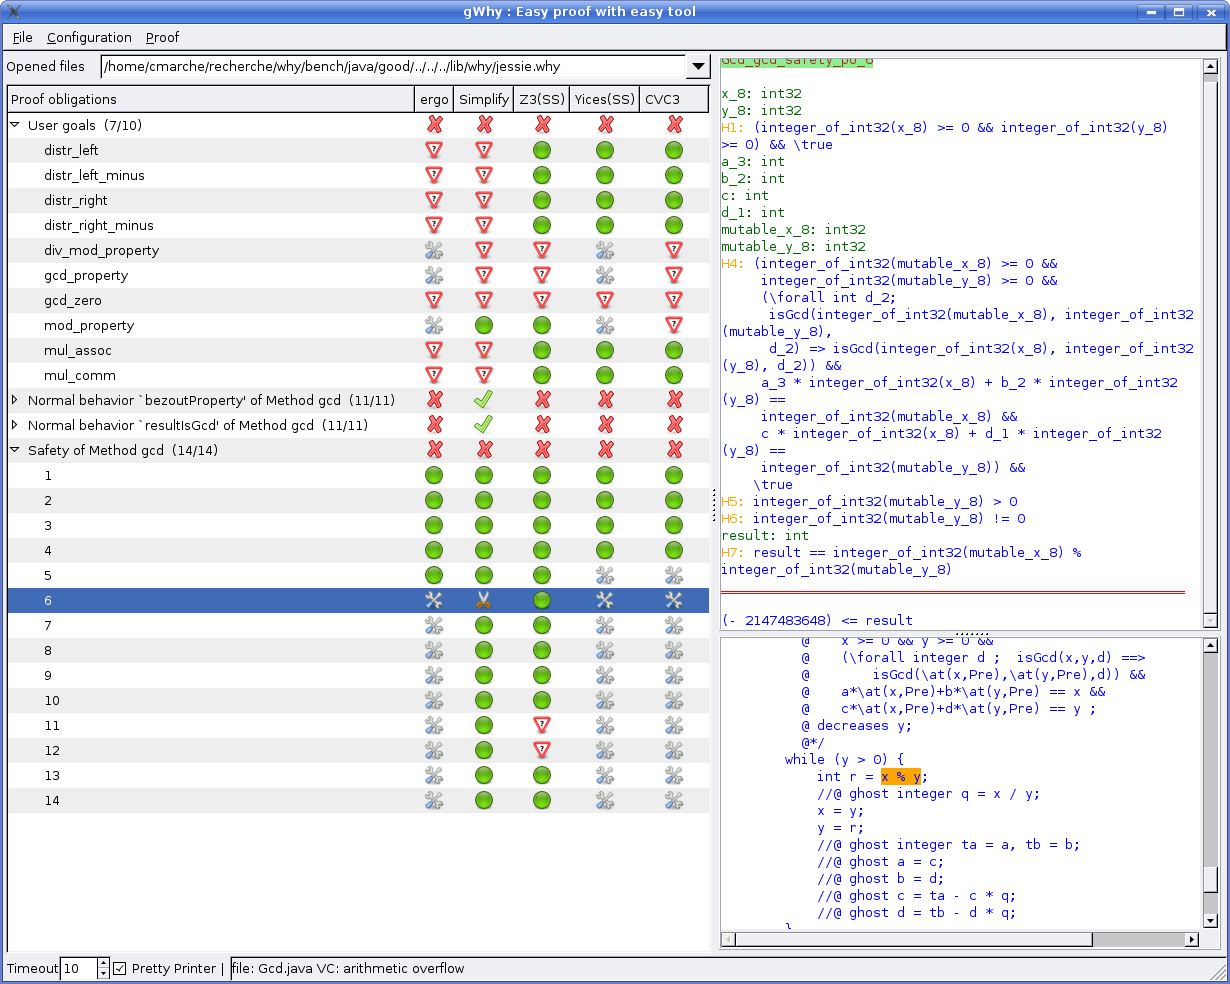
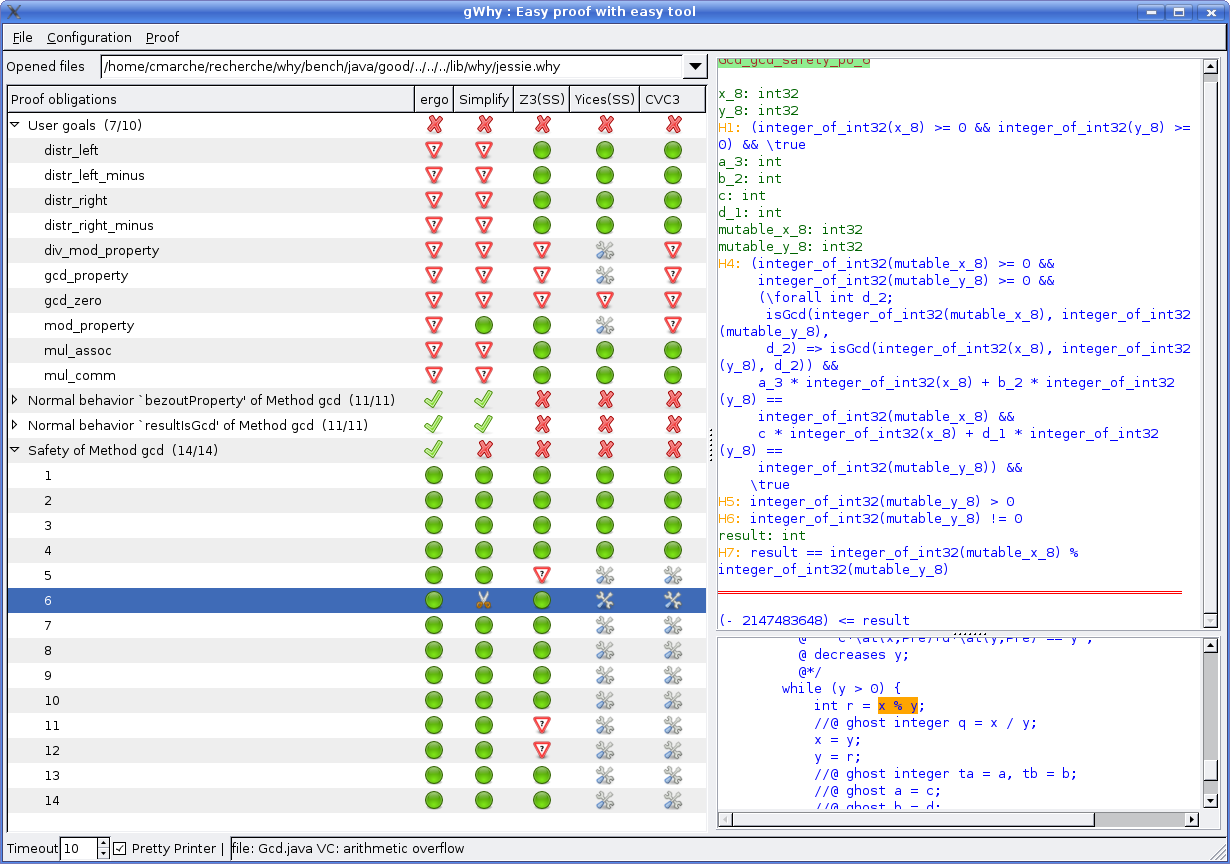
pb hyp selection
git-svn-id: https://www.lri.fr/svn/demons/why2/trunk@2976 ecafba89-7d34-45a1-8a0b-92829e960b72

Changed region(s): [[0.0, 0.0, 1.0, 1.0]]

diff --git a/doc/february2008.tex b/doc/february2008.tex
@@ -129,10 +129,10 @@ show that \verb|x%y| is greater than \verb|min_int|.
 The complete ``proof card'' is given below. The first screenshot
 displays VCs for the user lemmas and for the safety if the \verb|gcd|
 method. The focus is on the goal for proving that the operation
-\verb|x%y| do not overflow, only Z3 is able to discharge it. The
+\verb|x%y| do not overflow, only Erg(o) and Z3 are able to discharge it. The
 second screenshot displays VCs for the two given behaviors. The focus
 is on the preservation of the invariant
-\verb|c*\at(x,Pre)+d*\at(y,Pre) == y|, only Simplify is able to
+\verb|c*\at(x,Pre)+d*\at(y,Pre) == y|, only Erg(o) and Simplify are able to
 discharge it.
 
 \clearpage

diff --git a/bench/java/good/Gcd.java b/bench/java/good/Gcd.java
@@ -67,7 +67,8 @@
 
 /*@ lemma mod_property:
   @  \forall integer x,y; 
-  @    x >=0 && y > 0 ==> 0 <= x%y && x%y < y; 
+  @    // x >=0 && y > 0 ==> 
+ 0 <= x%y && x%y < y; 
   @*/
 
 /*@ predicate isGcd(integer a, integer b, integer d) {
